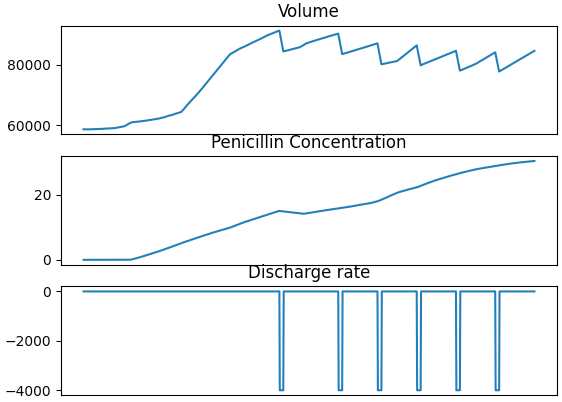
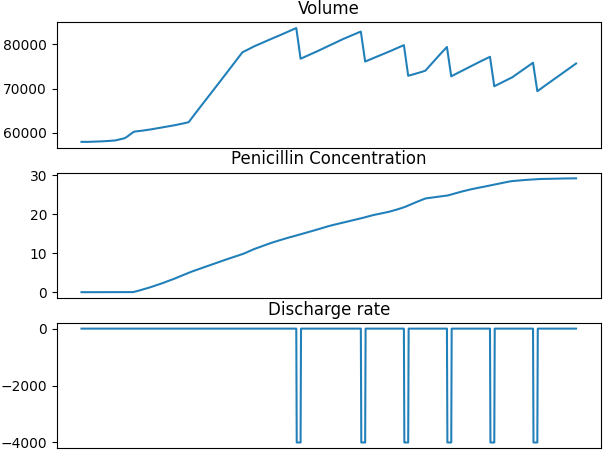
update figures

Changed region(s): [[0.0, 0.2985, 0.9982, 0.9851], [0.0, 0.0, 0.9982, 0.3284]]

diff --git a/main.py b/main.py
@@ -8,7 +8,7 @@ from helper.save_csv import save_csv
 
 
 if __name__ == "__main__":
-    total_runs = 3
+    total_runs = 1
     num_of_batches = 1
     plot_res = True
     save_res = False
